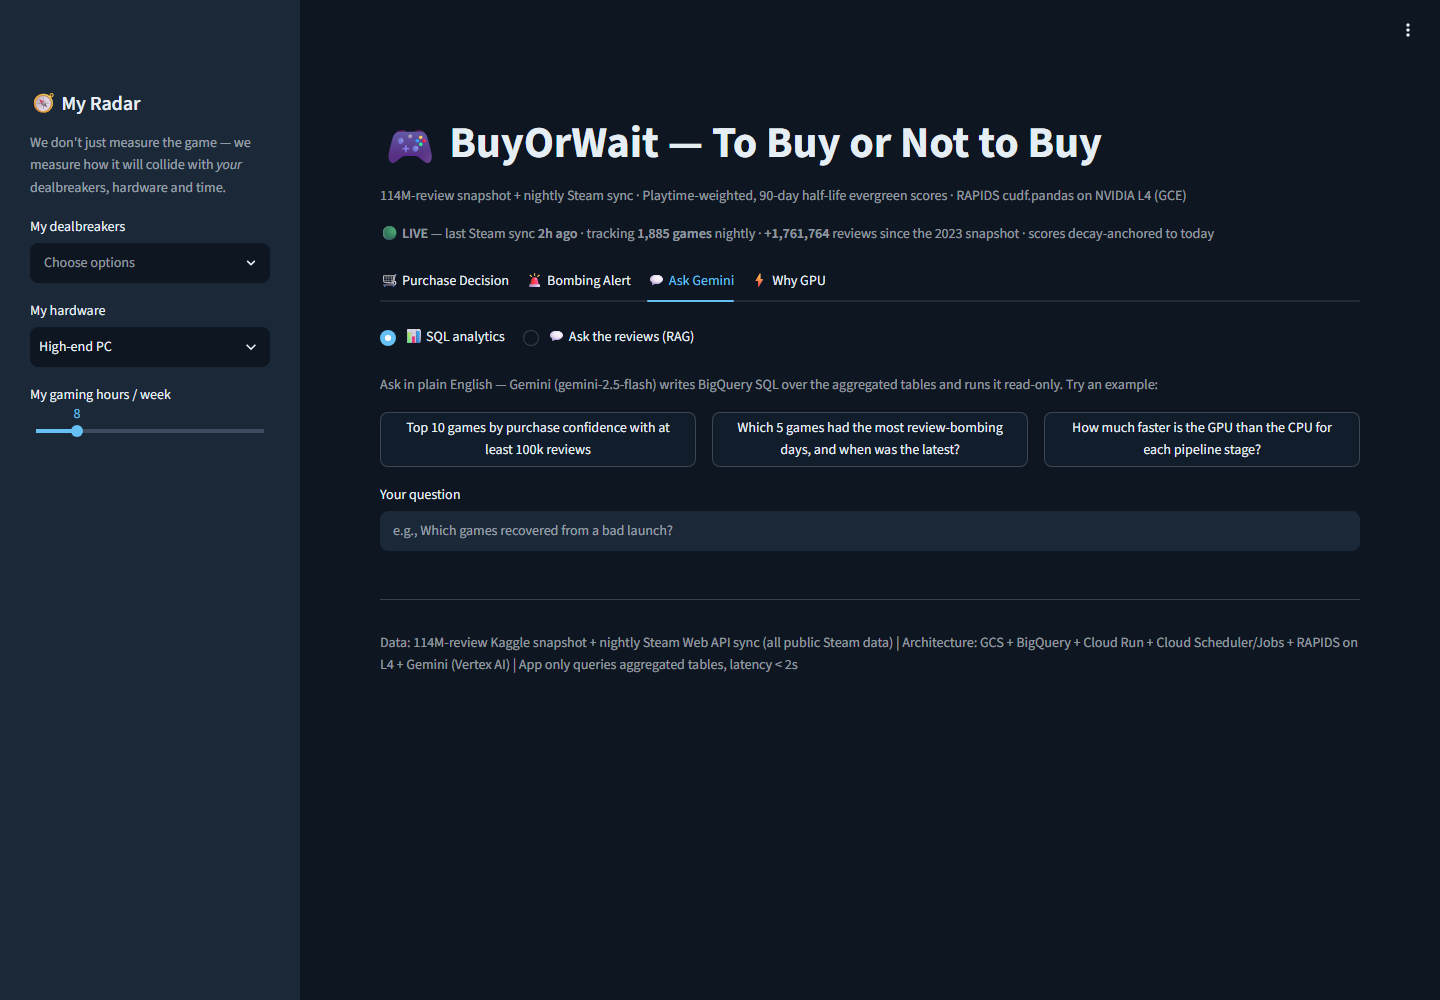
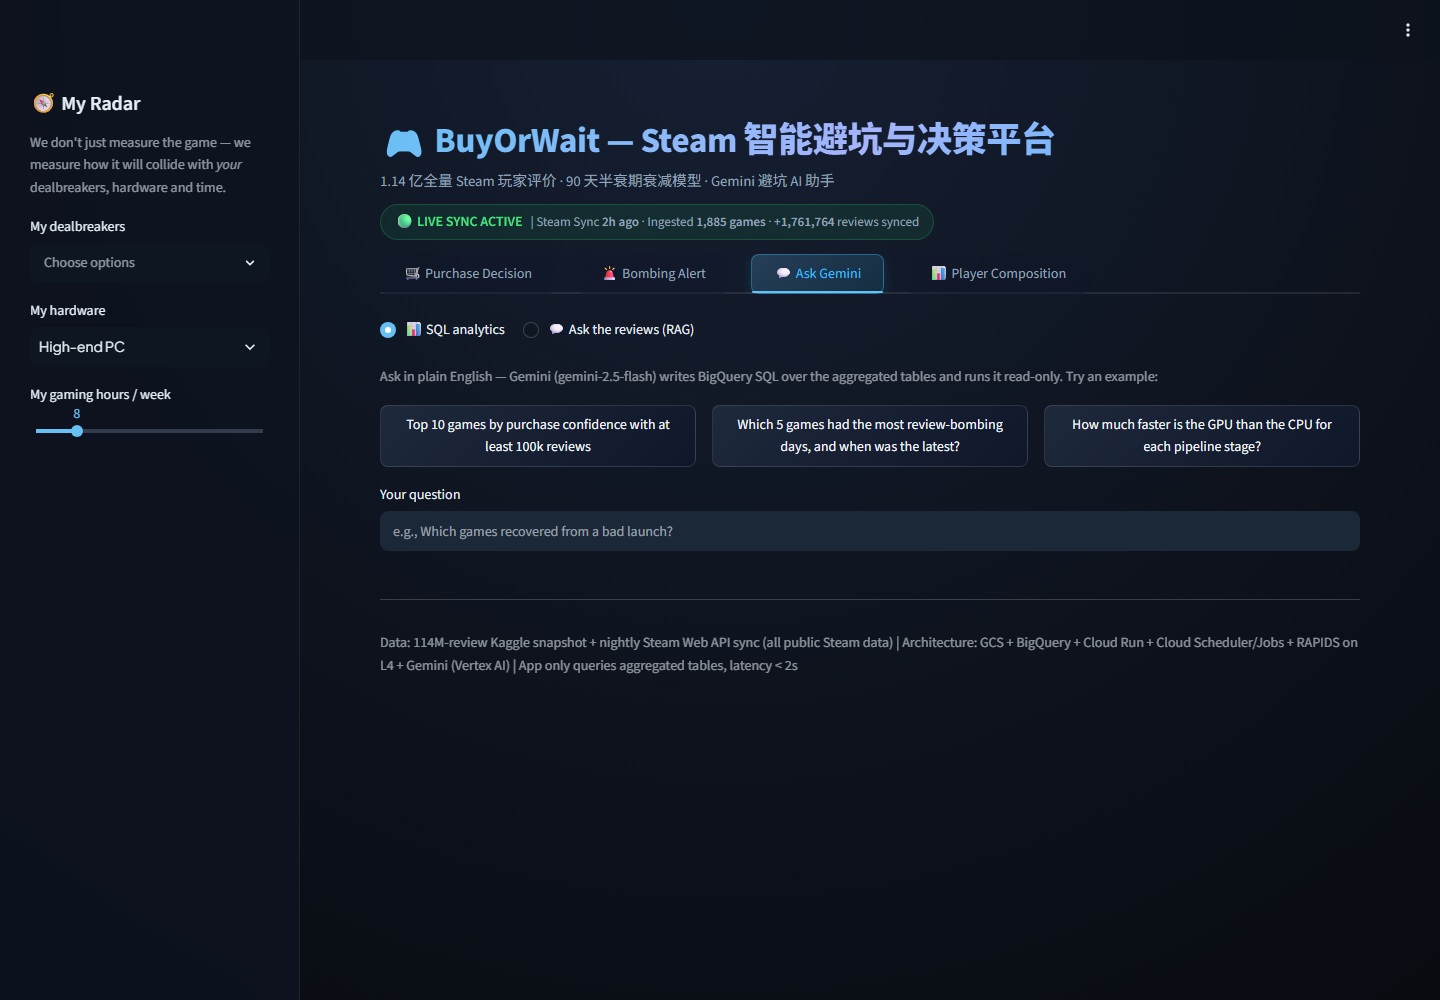
style(app): upgrade UI with modern dark glassmorphism theme, custom typography, and responsive metric cards

diff --git a/app/app.py b/app/app.py
@@ -21,7 +21,126 @@ PROJECT = os.environ.get("GCP_PROJECT", "buyorwait-2026")   # Change to your GCP
 DATASET = os.environ.get("BQ_DATASET", "steam_intel")
 GEMINI_MODEL = os.environ.get("GEMINI_MODEL", "gemini-2.5-flash")
 
-st.set_page_config(page_title="BuyOrWait", page_icon="🎮", layout="wide")
+st.set_page_config(page_title="BuyOrWait — Steam 智能避坑与决策平台", page_icon="🎮", layout="wide")
+
+# Modern Glassmorphism & Cyberpunk Dark Theme CSS
+st.markdown("""
+<style>
+@import url('https://fonts.googleapis.com/css2?family=Plus+Jakarta+Sans:wght@400;500;600;700;800&display=swap');
+
+html, body, [class*="css"] {
+    font-family: 'Plus Jakarta Sans', -apple-system, BlinkMacSystemFont, sans-serif;
+}
+
+/* App Background & Sleek Atmosphere */
+.stApp {
+    background: radial-gradient(circle at 50% 0%, #162033 0%, #0d121c 60%, #080b10 100%);
+    color: #e2e8f0;
+}
+
+/* Top Navigation Bar & Headers */
+header[data-testid="stHeader"] {
+    background: rgba(13, 18, 28, 0.7) !important;
+    backdrop-filter: blur(16px);
+}
+
+/* Hero Title Card */
+.hero-title {
+    font-size: 2.2rem;
+    font-weight: 800;
+    background: linear-gradient(135deg, #66c0f4 0%, #a5b4fc 50%, #38bdf8 100%);
+    -webkit-background-clip: text;
+    -webkit-text-fill-color: transparent;
+    margin-bottom: 2px;
+    letter-spacing: -0.5px;
+}
+
+.hero-subtitle {
+    font-size: 0.92rem;
+    color: #94a3b8;
+    margin-bottom: 10px;
+}
+
+/* Metric Cards Styling */
+[data-testid="stMetric"] {
+    background: rgba(22, 32, 50, 0.65);
+    border: 1px solid rgba(255, 255, 255, 0.08);
+    border-radius: 12px;
+    padding: 14px 18px;
+    box-shadow: 0 4px 20px rgba(0, 0, 0, 0.25);
+    backdrop-filter: blur(12px);
+    transition: all 0.2s ease-in-out;
+}
+[data-testid="stMetric"]:hover {
+    transform: translateY(-2px);
+    border-color: rgba(102, 192, 244, 0.4);
+    box-shadow: 0 6px 24px rgba(102, 192, 244, 0.15);
+}
+[data-testid="stMetricValue"] {
+    font-weight: 800;
+    color: #f8fafc;
+}
+[data-testid="stMetricLabel"] {
+    color: #94a3b8;
+    font-weight: 500;
+    font-size: 0.85rem;
+}
+
+/* Styled Tabs */
+[data-testid="stTab"] {
+    font-weight: 600;
+    font-size: 15px;
+    padding: 10px 22px;
+    border-radius: 8px;
+    color: #94a3b8;
+    background: rgba(15, 23, 42, 0.4);
+    border: 1px solid transparent;
+    transition: all 0.2s ease;
+    margin-right: 6px;
+}
+[data-testid="stTab"]:hover {
+    color: #e2e8f0;
+    border-color: rgba(102, 192, 244, 0.3);
+}
+[data-testid="stTab"][aria-selected="true"] {
+    background: linear-gradient(135deg, rgba(102, 192, 244, 0.22) 0%, rgba(56, 189, 248, 0.12) 100%);
+    color: #38bdf8;
+    border: 1px solid rgba(56, 189, 248, 0.4);
+    box-shadow: 0 4px 12px rgba(56, 189, 248, 0.15);
+}
+
+/* Sidebar Glassmorphism */
+[data-testid="stSidebar"] {
+    background-color: rgba(13, 19, 31, 0.9);
+    backdrop-filter: blur(20px);
+    border-right: 1px solid rgba(255, 255, 255, 0.08);
+}
+
+/* Streamlit Buttons */
+.stButton>button {
+    border-radius: 8px;
+    font-weight: 600;
+    background: linear-gradient(135deg, #1e293b 0%, #0f172a 100%);
+    border: 1px solid rgba(255, 255, 255, 0.12);
+    color: #f1f5f9;
+    padding: 8px 16px;
+    transition: all 0.2s ease;
+}
+.stButton>button:hover {
+    border-color: #38bdf8;
+    box-shadow: 0 0 16px rgba(56, 189, 248, 0.3);
+    color: #38bdf8;
+    transform: translateY(-1px);
+}
+
+/* Dataframe styling */
+[data-testid="stDataFrame"] {
+    border: 1px solid rgba(255, 255, 255, 0.08);
+    border-radius: 12px;
+    overflow: hidden;
+}
+</style>
+""", unsafe_allow_html=True)
 
 
 @st.cache_resource
@@ -46,7 +165,7 @@ def T(name: str) -> str:
 def verdict(score: float, recent: float | None) -> str:
     base = "🟢 Buy" if score >= 70 else ("🟡 Wait" if score >= 40 else "🔴 Skip")
     if recent is not None and not pd.isna(recent) and recent + 15 < score:
-        base += " (⚠ Recent reviews are significantly lower than overall score)"
+        base += " (⚠ Recent reviews lower than overall)"
     return base
 
 
@@ -196,16 +315,23 @@ def freshness_badge():
             raise ValueError("no sync yet")
         hrs = max(0, int((pd.Timestamp.now(tz="UTC")
                           - pd.Timestamp(f.last_sync)).total_seconds() // 3600))
-        st.caption(f"🟢 **LIVE** — last Steam sync **{hrs}h ago** · tracking "
-                   f"**{int(f.tracked_games):,} games** nightly · "
-                   f"**+{int(f.delta_reviews):,}** reviews since the 2023 snapshot · "
-                   "scores decay-anchored to today")
+        st.markdown(f"""
+        <div style="display: flex; align-items: center; gap: 8px; background: rgba(34, 197, 94, 0.1); border: 1px solid rgba(34, 197, 94, 0.25); padding: 6px 14px; border-radius: 20px; width: fit-content; margin-bottom: 14px;">
+            <span style="color: #4ade80; font-size: 14px;">🟢 <strong>LIVE SYNC ACTIVE</strong></span>
+            <span style="color: #94a3b8; font-size: 13px;">| Steam Sync <strong>{hrs}h ago</strong> · Ingested <strong>{int(f.tracked_games):,} games</strong> · <strong>+{int(f.delta_reviews):,}</strong> reviews synced</span>
+        </div>
+        """, unsafe_allow_html=True)
     except Exception:
-        st.caption("🟡 Snapshot mode — first nightly Steam sync lands tonight.")
+        st.markdown("""
+        <div style="display: flex; align-items: center; gap: 8px; background: rgba(234, 179, 8, 0.1); border: 1px solid rgba(234, 179, 8, 0.25); padding: 6px 14px; border-radius: 20px; width: fit-content; margin-bottom: 14px;">
+            <span style="color: #facc15; font-size: 14px;">🟡 <strong>SNAPSHOT ACTIVE</strong></span>
+            <span style="color: #94a3b8; font-size: 13px;">| 1.14M Review Snapshot Loaded · Nightly Sync Active</span>
+        </div>
+        """, unsafe_allow_html=True)
 
 
-st.title("🎮 BuyOrWait — To Buy or Not to Buy")
-st.caption("114M-review snapshot + nightly Steam sync · Playtime-weighted, 90-day half-life evergreen scores · RAPIDS cudf.pandas on NVIDIA L4 (GCE)")
+st.markdown('<div class="hero-title">🎮 BuyOrWait — Steam 智能避坑与决策平台</div>', unsafe_allow_html=True)
+st.markdown('<div class="hero-subtitle">1.14 亿全量 Steam 玩家评价 · 90 天半衰期衰减模型 · Gemini 避坑 AI 助手</div>', unsafe_allow_html=True)
 freshness_badge()
 
 # ---- My Radar: personal dealbreaker profile (session-only, no login) ---------
